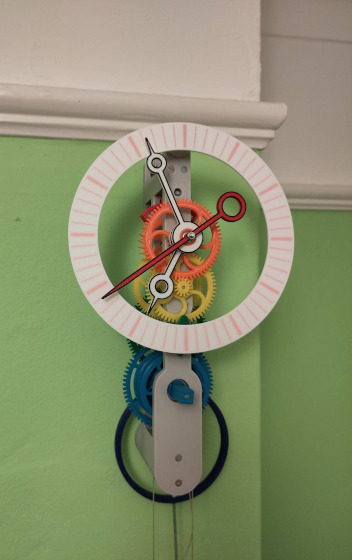
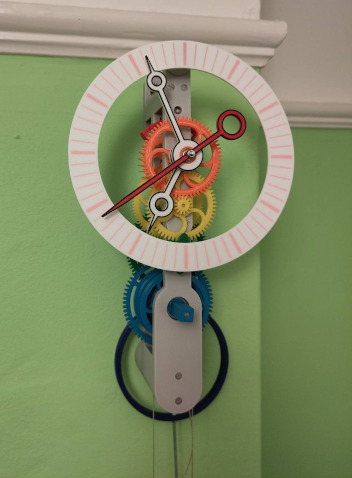
put render and photo at top of readme

diff --git a/README.md b/README.md
@@ -1,4 +1,8 @@
 # 3DPrintedClocks
+
+![Clock 12 Render](images/wall_clock_12_small.png "Clock 12 Render")
+![Clock 12 Photo](images/wall_clock_12_small.jpg "Clock 12 Photo")
+
 A sprawling library of python code for 3D printing clocks and accessories. CadQuery is used to produce the 3D models (exported to STL) and numpy is used for much of the vector arithmetic. I use the Cadquery editor (cq-editor) to visualise the clock as I'm developing. 
 
 Most of the code is part of a library intended for generating complete clocks to be 3D printed. Deadbeat and grasshopper escapements are complete and functional. There was a (not great) recoil escapement which has since been deprecated and removed.
@@ -28,8 +32,7 @@ This source describes Open Hardware and is licensed under the CERN-OHL-S v2.
 
 My entirely non-lawyerly understanding is that this is like the GPL for hardware design (since the STLs are the output of the software, I cannot use the more conventional GPL to cover them). I don't wish to limit anyone's use of this library, but I do wish to prevent clocks developed using the library becoming closed source. If you distribute (paid or free) STLs for a clock, or a printed clock, you must also provide the source code used to generate those STLs.
 
-![Clock 12 Render](images/wall_clock_12.png "Clock 12 Render")
-![Clock 12 Photo](images/wall_clock_12_small.jpg "Clock 12 Photo")
+
 
 # Acknowledgements
 
